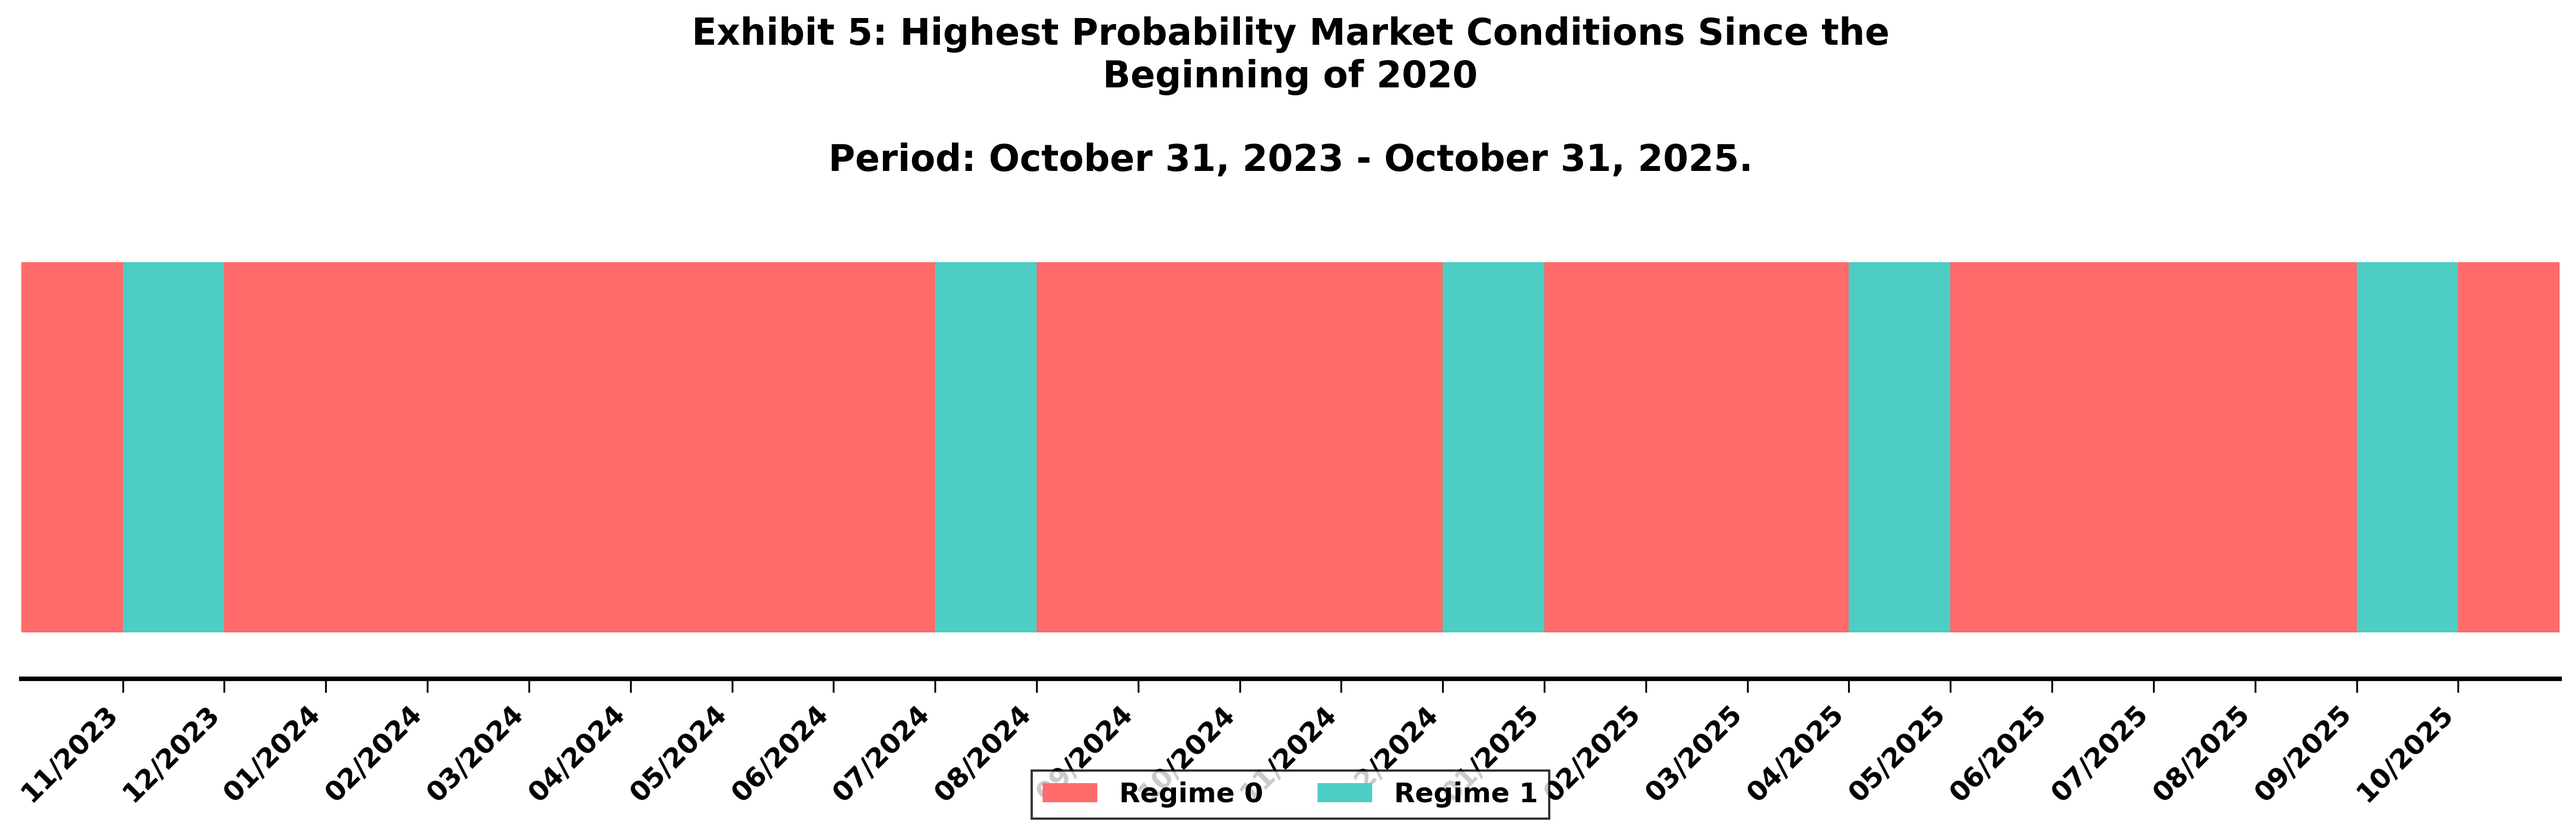
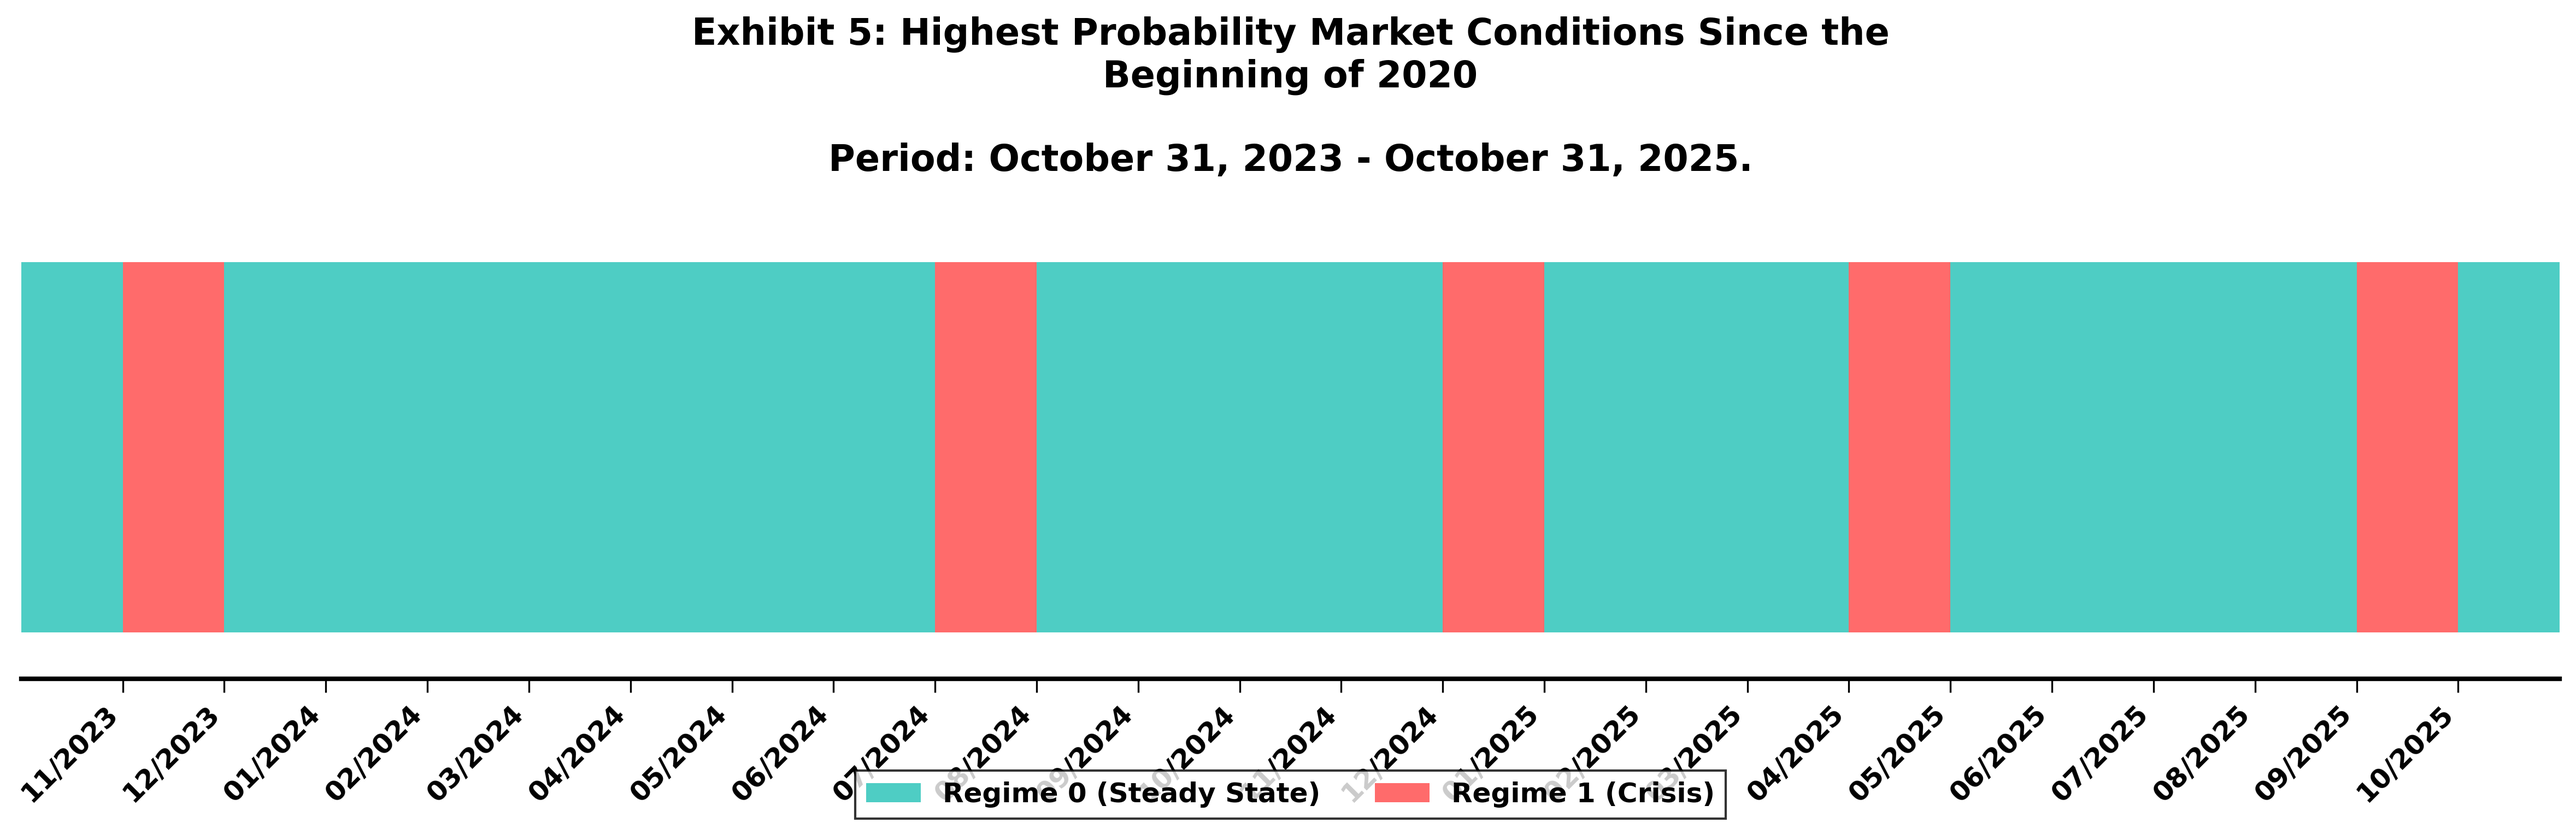
Updated plots

diff --git a/visualizations.py b/visualizations.py
@@ -113,8 +113,8 @@ def create_professional_regime_charts(regimes, k_star, dates, args):
     
     # Define professional color scheme matching your exhibits
     regime_colors = {
-        0: '#FF6B6B',  # Red/Pink - Crisis
-        1: '#4ECDC4',  # Teal/Cyan - Steady State  
+        0: '#4ECDC4',  # Teal/Cyan - Steady State
+        1: '#FF6B6B',  # Red/Pink - Crisis
         2: '#45B7D1',  # Blue - Another state
         3: '#96CEB4',  # Light Green - Another state
         4: '#FFEAA7',  # Yellow - WOI
@@ -122,8 +122,12 @@ def create_professional_regime_charts(regimes, k_star, dates, args):
     }
     
     # Create generic regime labels
-    regime_labels = {}
-    for i in range(k_star):
+    regime_labels = {
+        0: 'Regime 0 (Steady State)',
+        1: 'Regime 1 (Crisis)'
+    }
+    # Add generic labels for K>2 (shouldn't happen with your model)
+    for i in range(2, k_star):
         regime_labels[i] = f'Regime {i}'
     
     # Create output directory
@@ -704,16 +708,21 @@ def create_visualizations(regimes, diagnostics, X, dates, k_star, args):
     
     # 2. Regime Time Series
     fig, (ax1, ax2) = plt.subplots(2, 1, figsize=(15, 10))
-    
+
     # Convert dates to datetime if they aren't already
     plot_dates = pd.to_datetime(dates)
-    
+
+    # Define colors for K=2 model
+    regime_colors_list = ['#4ECDC4', '#FF6B6B']  # 0=Teal, 1=Red
+    regime_names = ['Steady State', 'Crisis']
+
     # Regime assignments over time
-    colors = plt.cm.Set1(np.linspace(0, 1, k_star))
     for regime in range(k_star):
         mask = regimes['regime'] == regime
+        color = regime_colors_list[regime] if regime < len(regime_colors_list) else plt.cm.Set1(regime/k_star)
+        label = f'Regime {regime} ({regime_names[regime]})' if regime < len(regime_names) else f'Regime {regime}'
         ax1.scatter(plot_dates[mask], [regime] * sum(mask), 
-                   c=[colors[regime]], alpha=0.6, s=10, label=f'Regime {regime}')
+                c=color, alpha=0.6, s=10, label=label)
     
     ax1.set_ylabel('Regime')
     ax1.set_title(f'Market Regimes Over Time (K={k_star})')
@@ -724,9 +733,10 @@ def create_visualizations(regimes, diagnostics, X, dates, k_star, args):
     # Regime probabilities as stacked area
     prob_cols = [f'prob_{j}' for j in range(k_star)]
     prob_data = regimes[prob_cols].values.T
-    
-    ax2.stackplot(plot_dates, *prob_data, labels=[f'Regime {i}' for i in range(k_star)], 
-                  colors=colors, alpha=0.7)
+
+    ax2.stackplot(plot_dates, *prob_data, 
+                labels=[f'Regime {i} ({regime_names[i]})' if i < len(regime_names) else f'Regime {i}' for i in range(k_star)], 
+                colors=regime_colors_list[:k_star], alpha=0.7)
     ax2.set_xlabel('Date')
     ax2.set_ylabel('Probability')
     ax2.set_title('Regime Probabilities Over Time')
